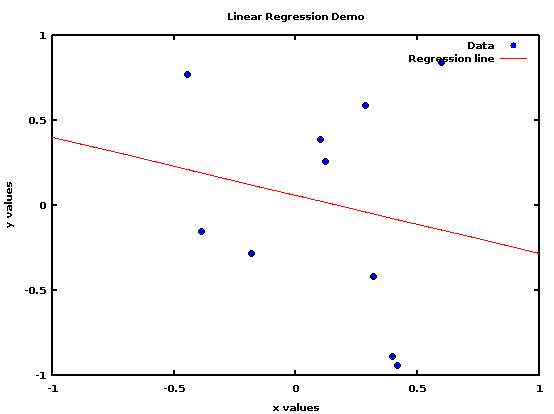
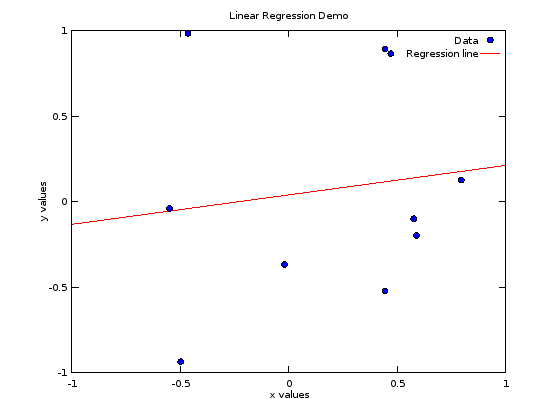
Plots now generated by fltk.

diff --git a/week-02/src/plot_lr_pla.m b/week-02/src/plot_lr_pla.m
@@ -1,4 +1,4 @@
-addpath ("../common");
+addpath ("./common");
 
 clear all;
 close all;
@@ -73,4 +73,4 @@ w = pla (X, y, w,  maxiter, 0);
 % Plots the final decision boundary
 plotboundary (w, limits, "g");
 
-legend ("Target function", "", "", "Regression boundary", "PLA boundary");
+legend ("Target function", "Positive examples", "Negative examples", "Regression boundary", "PLA boundary");

diff --git a/week-02/src/plot_lr_nonlinear.m b/week-02/src/plot_lr_nonlinear.m
@@ -41,9 +41,9 @@ hy = sign (X * w);
 figure (1);
 hold on;
 
-title ("Non-linear Hypothesis Demo");
-xlabel ("x values");
-ylabel ("y values");
+title ("Nonlinear Hypothesis Demo");
+xlabel ("x_1");
+ylabel ("x_2");
 
 plot (X(pos,2), X(pos,3), "b+", "MarkerSize", 8);
 plot (X(neg,2), X(neg,3), "ko", "MarkerFaceColor", "y", "MarkerSize", 8);

diff --git a/week-02/src/plot_lr.m b/week-02/src/plot_lr.m
@@ -1,4 +1,4 @@
-addpath ("../common");
+addpath ("./common");
 
 clear all;
 close all;
